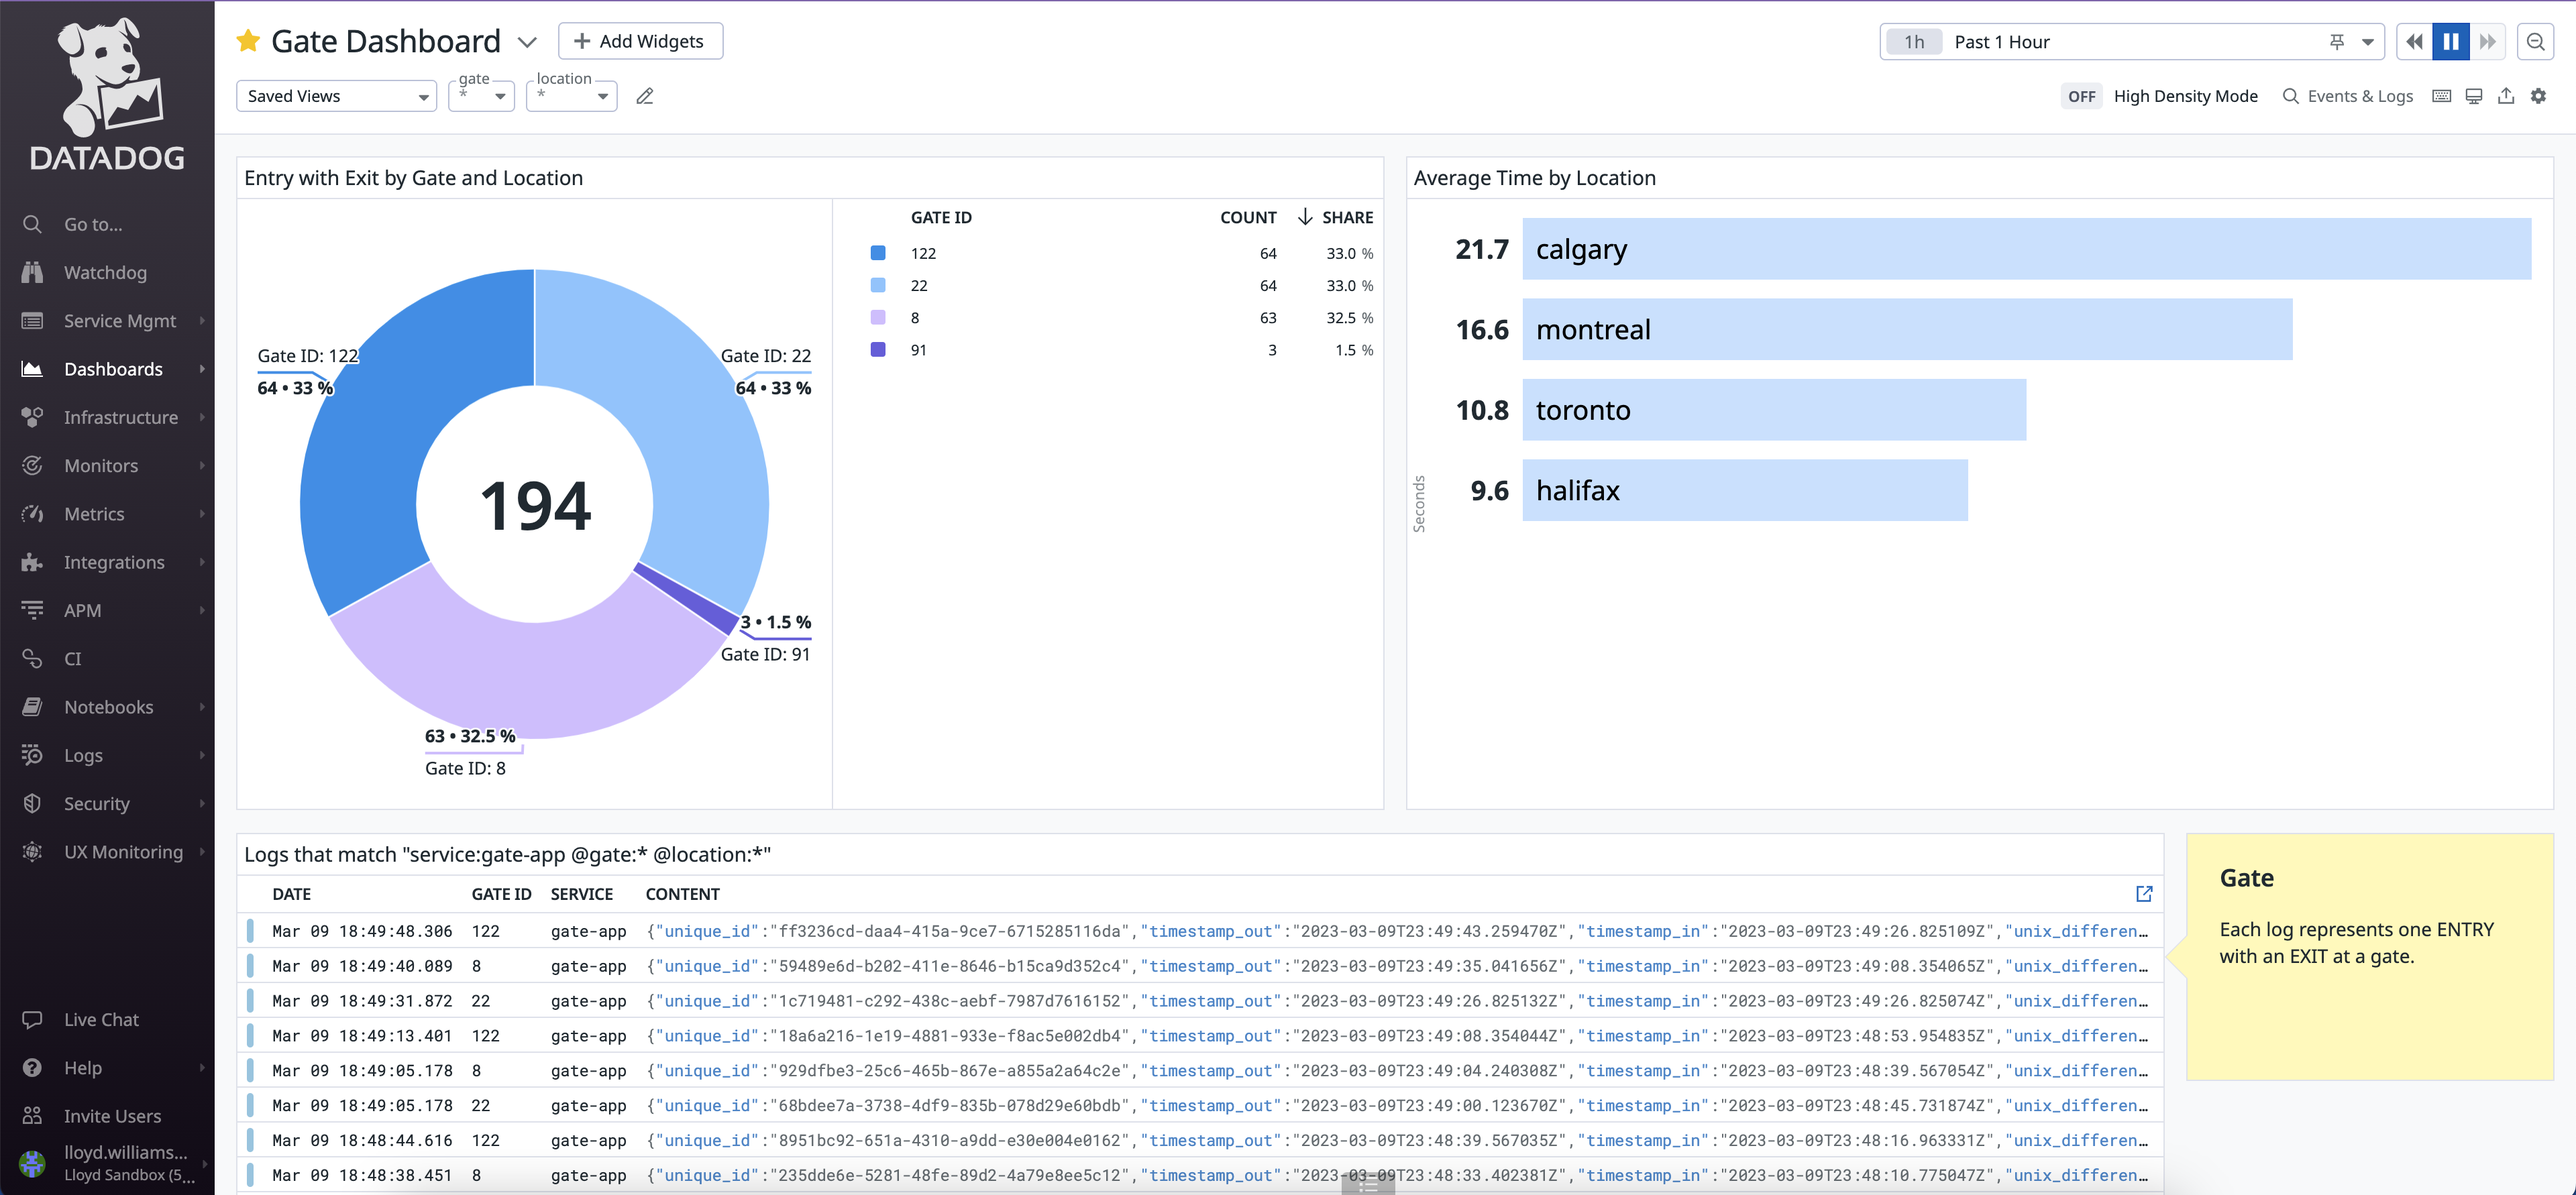
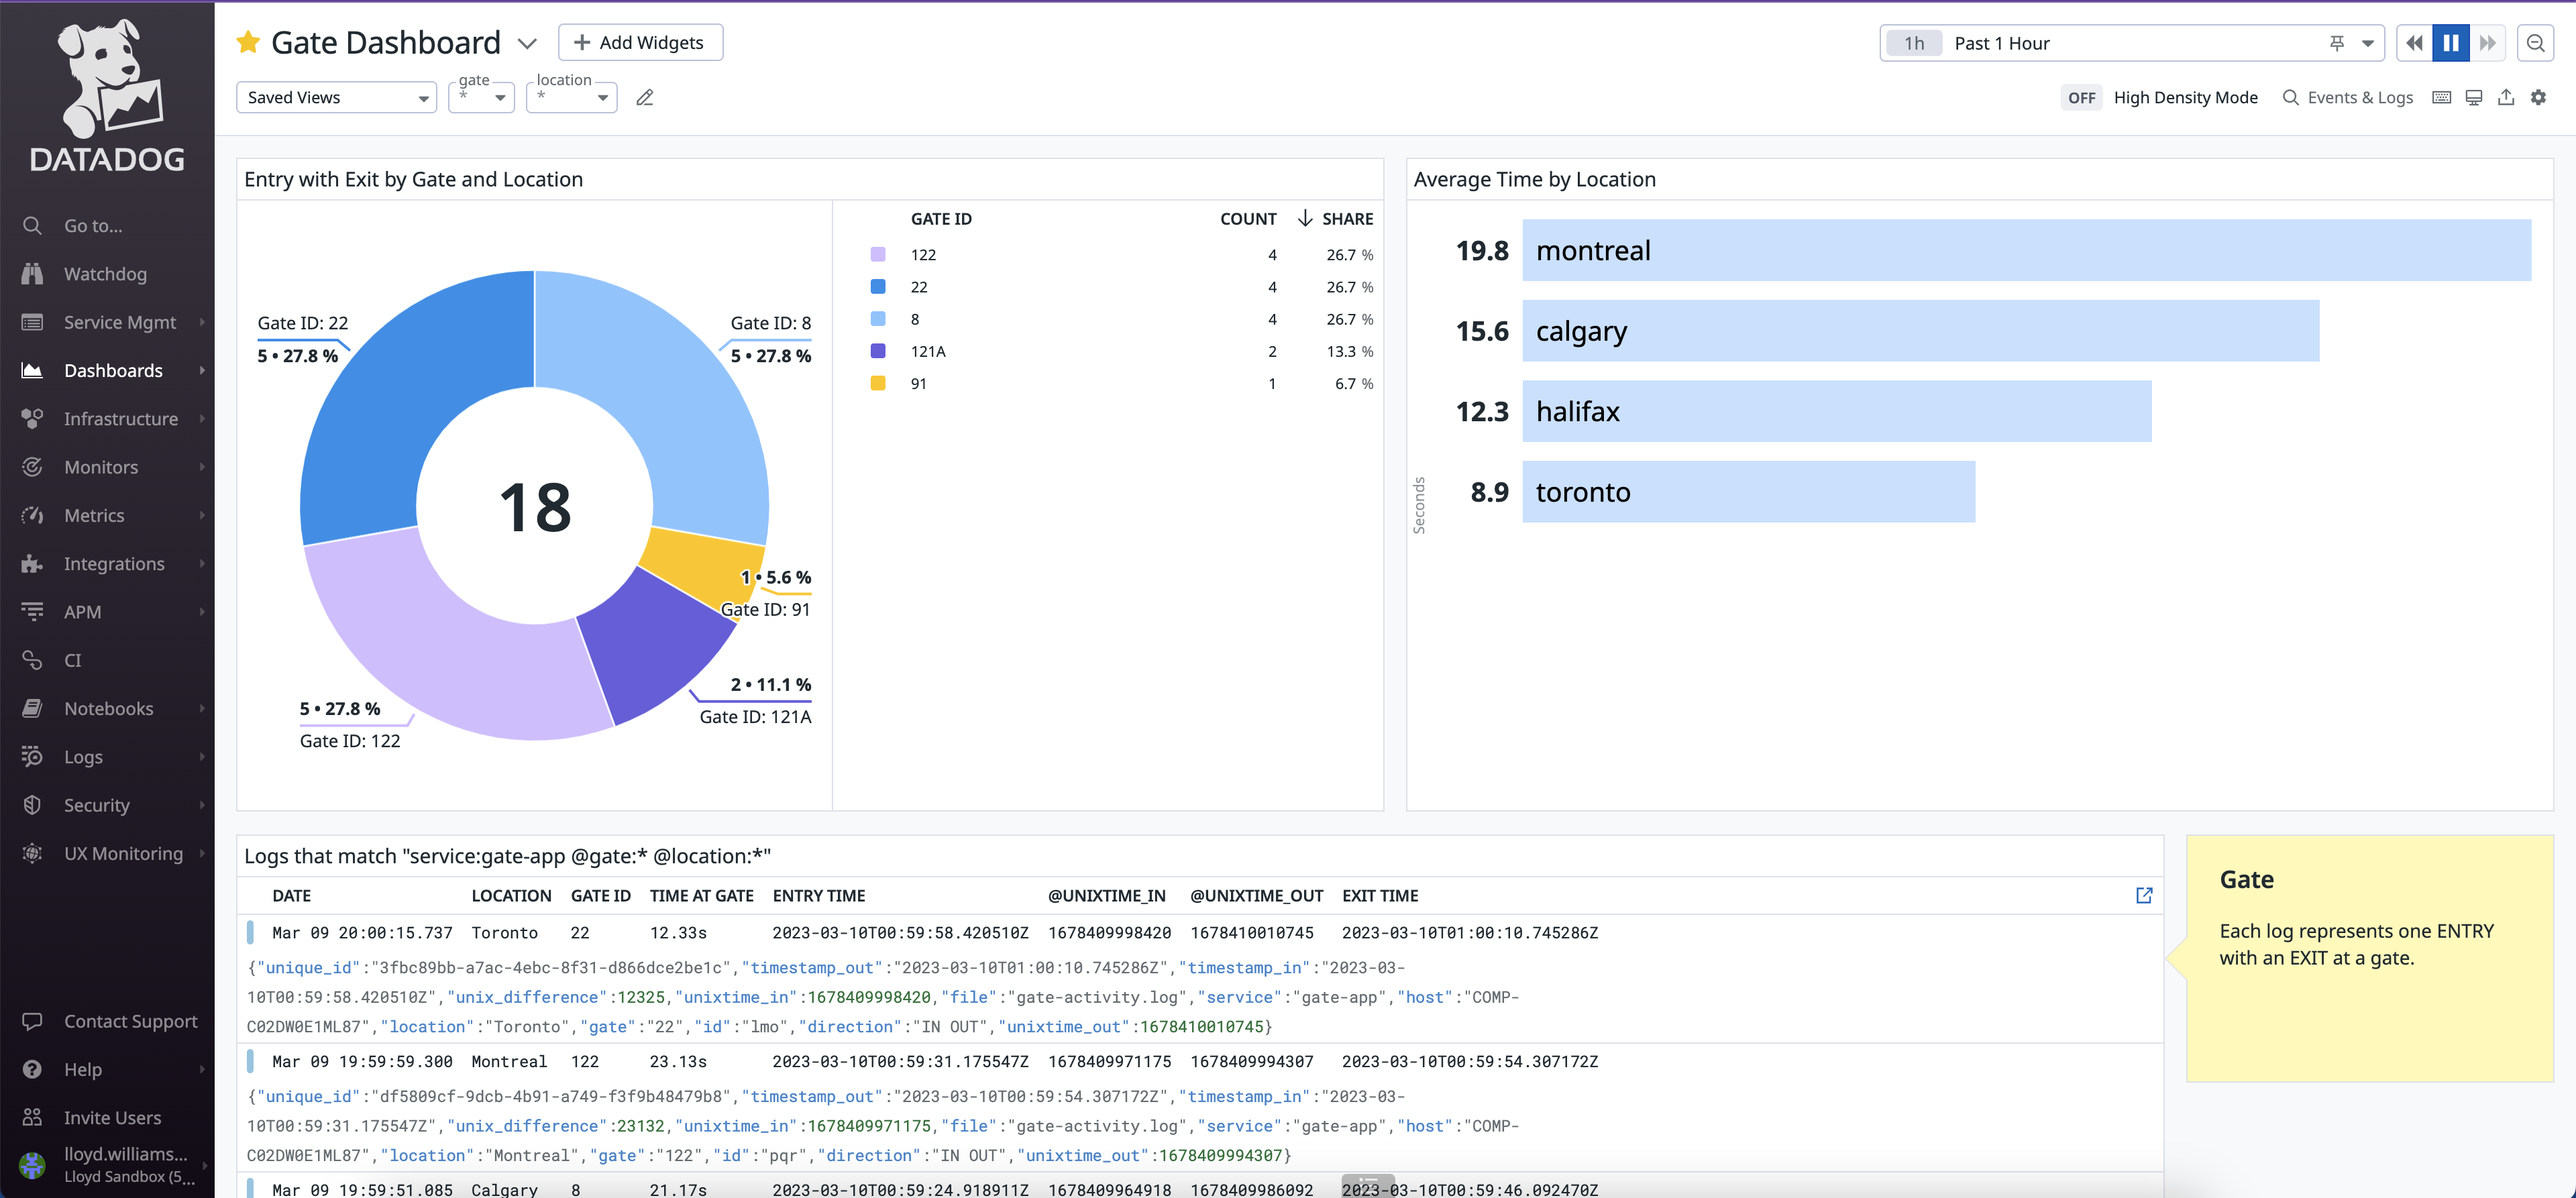
updated dashboard
updated dashboard

diff --git a/observability-pipelines/README.md b/observability-pipelines/README.md
@@ -112,3 +112,5 @@ enterprise:
 ## Datadog Dashboards
 
 ![dashboard-gate](images/dashboard-gate.png)
+
+This [dashboard](./examples/gates-app/GateDashboard.json) can be imported into your Datadog environment. 
